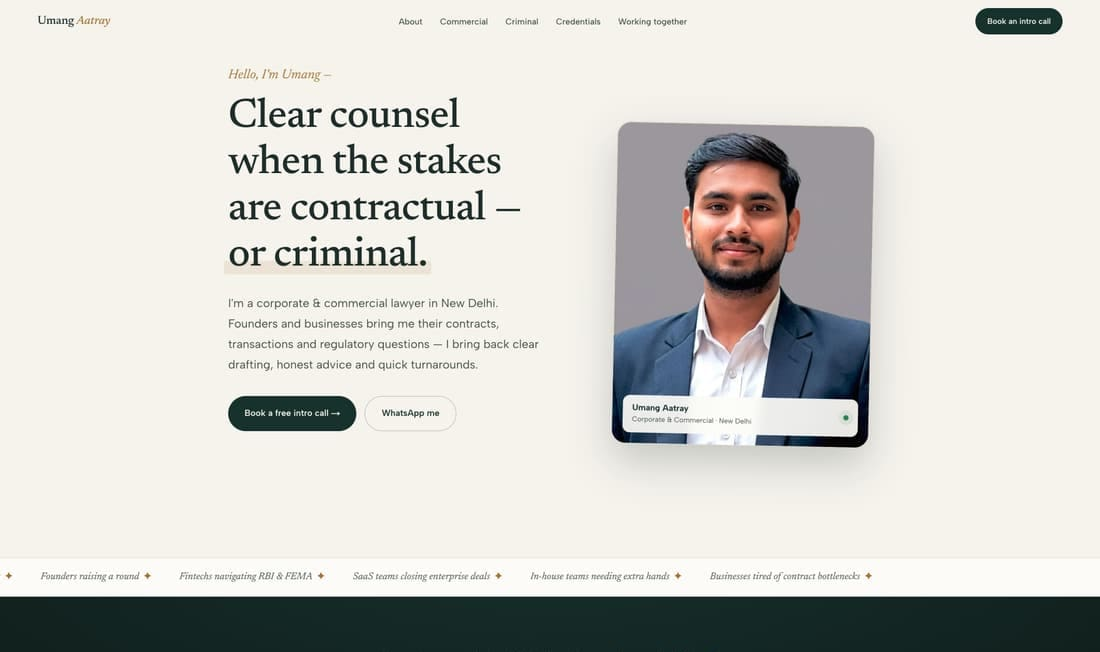
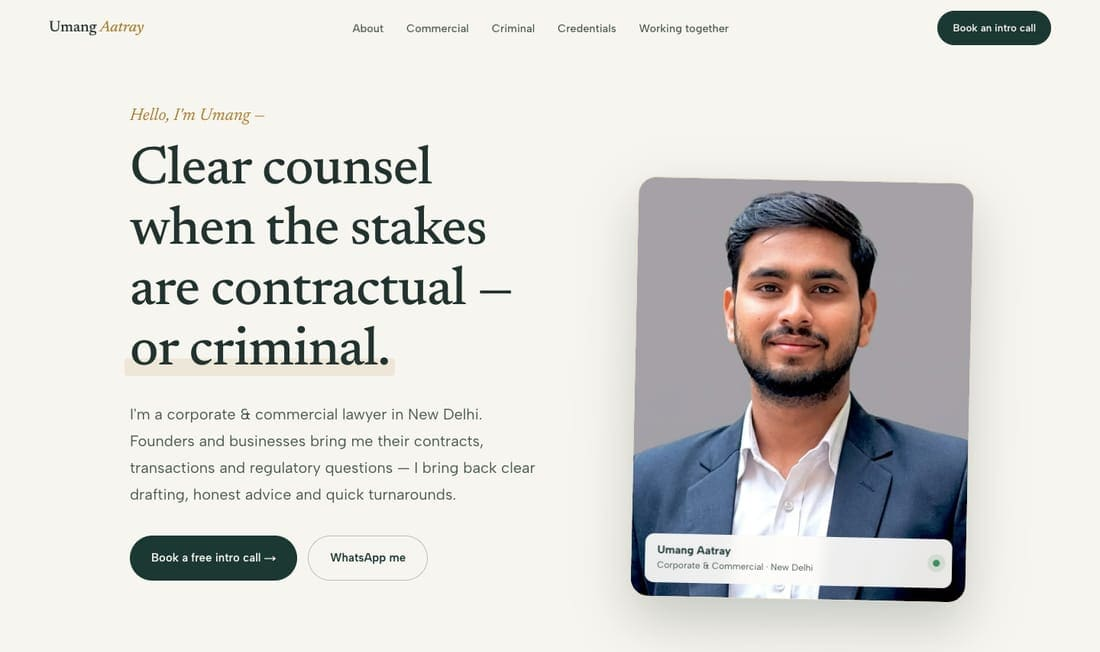
Re-capture Umang, and rename Wavelo to SandeshSetu
Both sites' captures were cut off before the footer. Re-captured from the live
deployments: Umang's home page, and all three SandeshSetu pages.

Wavelo has been rebranded — the live site, its logo and its footer all read
SandeshSetu now — so the project is renamed with it, including the slug the
two service pages select it by. /work/wavelo is retired.

Retiring a slug also surfaced a soft 404: /work/[slug] accepted any slug and
notFound() came back as 200, so a dead project URL looked like a real page to a
crawler. dynamicParams = false makes it a real 404.

diff --git a/app/work/projects.js b/app/work/projects.js
@@ -69,15 +69,15 @@ export const projects = [
     ],
   },
   {
-    slug: "wavelo",
-    name: "Wavelo",
+    slug: "sandeshsetu",
+    name: "SandeshSetu",
     category: "SaaS",
     stack: "Web app",
     year: "2025",
     summary:
       "A WhatsApp Business platform — campaigns, automations and a shared inbox in one workspace, wrapped in a crisp product-marketing site.",
     overview:
-      "Wavelo turns WhatsApp into a reliable customer channel — campaigns, automations and a shared team inbox. We crafted the product-marketing site: a bold narrative, interactive dashboard visuals, and early-access capture throughout.",
+      "SandeshSetu turns WhatsApp into a reliable customer channel — campaigns, automations and a shared team inbox, all running on Meta's official Business Platform. We crafted the product-marketing site: a bold narrative, interactive dashboard visuals, and early-access capture throughout.",
     challenge:
       "A pre-launch SaaS needed to look established and explain a multi-feature platform without overwhelming visitors.",
     solution:
@@ -91,9 +91,9 @@ export const projects = [
     services: ["Product marketing site", "UI/UX design", "Multi-page build"],
     tags: ["SaaS", "Product", "Landing"],
     pages: [
-      { label: "Home", d: "/work/wavelo-p0-d.jpg", m: "/work/wavelo-p0-m.jpg", dW: 1100, dH: 3457, mW: 440, mH: 9007 },
-      { label: "Features", d: "/work/wavelo-p1-d.jpg", m: "/work/wavelo-p1-m.jpg", dW: 1100, dH: 2559, mW: 440, mH: 7607 },
-      { label: "Pricing", d: "/work/wavelo-p2-d.jpg", m: "/work/wavelo-p2-m.jpg", dW: 1100, dH: 2325, mW: 440, mH: 5123 },
+      { label: "Home", d: "/work/sandeshsetu-p0-d.jpg", m: "/work/sandeshsetu-p0-m.jpg", dW: 1100, dH: 3637, mW: 440, mH: 8056 },
+      { label: "Features", d: "/work/sandeshsetu-p1-d.jpg", m: "/work/sandeshsetu-p1-m.jpg", dW: 1100, dH: 2839, mW: 440, mH: 7314 },
+      { label: "Pricing", d: "/work/sandeshsetu-p2-d.jpg", m: "/work/sandeshsetu-p2-m.jpg", dW: 1100, dH: 2577, mW: 440, mH: 4941 },
     ],
   },
   {
@@ -172,7 +172,7 @@ export const projects = [
     services: ["Personal brand site", "UI/UX design", "Responsive build"],
     tags: ["Website", "Legal", "Personal brand"],
     pages: [
-      { label: "Home", d: "/work/umang-p0-d.jpg", m: "/work/umang-p0-m.jpg", dW: 1100, dH: 4793, mW: 440, mH: 9502 },
+      { label: "Home", d: "/work/umang-p0-d.jpg", m: "/work/umang-p0-m.jpg", dW: 1100, dH: 7555, mW: 440, mH: 7840 },
     ],
   },
   {

diff --git a/app/work/[slug]/page.jsx b/app/work/[slug]/page.jsx
@@ -13,6 +13,12 @@ export function generateStaticParams() {
   return projects.map((p) => ({ slug: p.slug }));
 }
 
+// The project list is a static array, so anything outside it is a dead URL —
+// a retired slug, a typo, a stale link. Without this the router still renders
+// the segment and notFound() comes back as a soft 404: the right page, but a
+// 200, which search engines index as a real page.
+export const dynamicParams = false;
+
 export function generateMetadata({ params }) {
   const p = getProject(params.slug);
   if (!p) return {};

diff --git a/app/integrations-automation/components/IntegrationsProjects.jsx b/app/integrations-automation/components/IntegrationsProjects.jsx
@@ -7,7 +7,7 @@ import { motion } from "framer-motion";
 import { enter } from "@/app/components/_components/motion-presets";
 
 // Reuse the homepage project data — these three lean on wiring systems together.
-const shown = ["wavelo", "librarysetu", "brunswick-fur-food"]
+const shown = ["sandeshsetu", "librarysetu", "brunswick-fur-food"]
   .map((slug) => projects.find((p) => p.slug === slug))
   .filter(Boolean);
 

diff --git a/app/design-prototyping/components/DesignProjects.jsx b/app/design-prototyping/components/DesignProjects.jsx
@@ -7,7 +7,7 @@ import { motion } from "framer-motion";
 import { enter } from "@/app/components/_components/motion-presets";
 
 // Reuse the homepage project data — these three lead with design work.
-const shown = ["wavelo", "ayla-solutions", "umang-aatray"]
+const shown = ["sandeshsetu", "ayla-solutions", "umang-aatray"]
   .map((slug) => projects.find((p) => p.slug === slug))
   .filter(Boolean);
 
